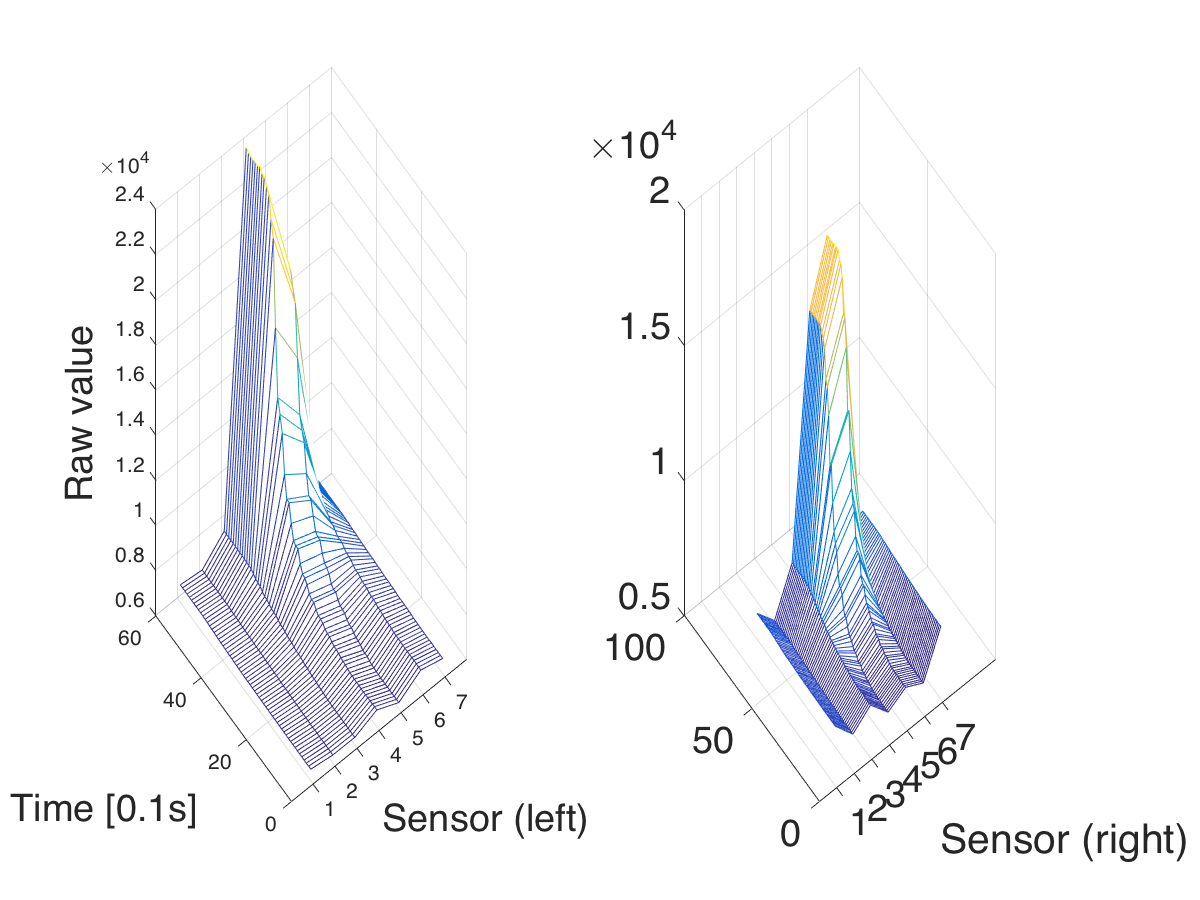
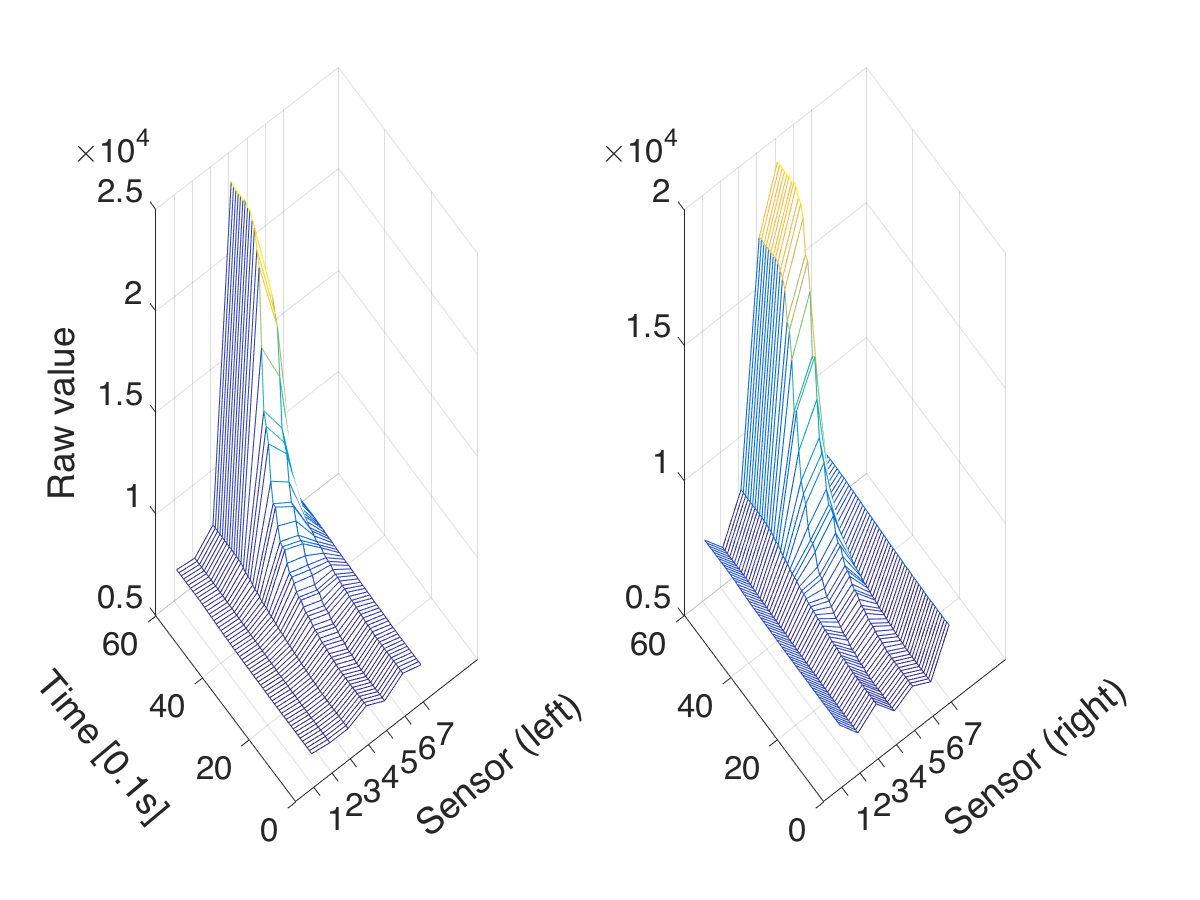
better figures

diff --git a/MATLAB/scripts/plot_contactpoint.m b/MATLAB/scripts/plot_contactpoint.m
@@ -15,10 +15,11 @@ pointC = [5,49,18860];
 points=[pointA' pointB' pointC'];
 %fill3(points(1,:),points(2,:),points(3,:),'r')
 %alpha(0.3)
-set(xlabel('Sensor (left)'),'FontSize',18);
-set(ylabel('Time [0.1s]'),'FontSize',18);
+set(xlabel('Sensor (left)'),'FontSize',18,'Rotation',40);
+set(ylabel('Time [0.1s]'),'FontSize',18,'Rotation',-50);
 set(zlabel('Raw value'),'FontSize',18);
 set(gca,'XTick',1:7)
+set(gca,'XTickLabel',get(gca,'XTickLabel'),'fontsize',16)
 
 subplot(1,2,2)
 mesh(Z,time,data(:,9:15));
@@ -30,10 +31,10 @@ points=[pointA' pointB' pointC'];
 %fill3(points(1,:),points(2,:),points(3,:),'r')
 %alpha(0.3)
 %set(title('Right finger'),'FontSize',14);
-set(xlabel('Sensor (right)'),'FontSize',18);
+set(xlabel('Sensor (right)'),'FontSize',18,'Rotation',40);
 %set(ylabel('Time [0.1s]'),'FontSize',18);
 set(gca,'XTick',1:7)
-set(gca,'XTickLabel',get(gca,'XTickLabel'),'fontsize',18)
+set(gca,'XTickLabel',get(gca,'XTickLabel'),'fontsize',16)
 saveas(h,'Figure9a','png')
 
 h=figure(2);
